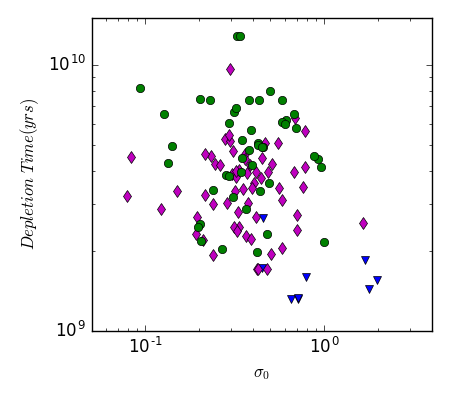
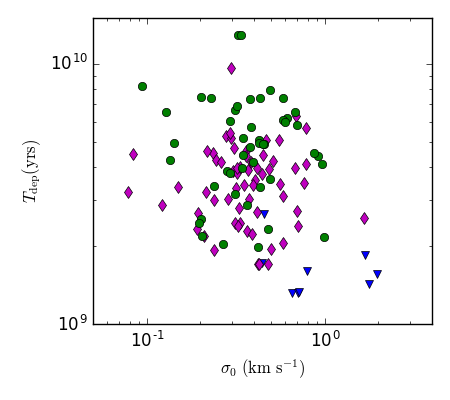
Star Formation

diff --git a/star_formation.py b/star_formation.py
@@ -49,8 +49,8 @@ Tdep2 = M_den *1E6 / SFRSD
 ##PLOTS##
 #Depletion time vs Surface Density
 figure = plt.figure(figsize=(4.5,4))
-plt.xlabel('$\Sigma\ ((M_{\odot})/pc^2)$')
-plt.ylabel('$Depletion\ Time (yrs)$')
+plt.xlabel('$\Sigma\ (M_{\odot}\ \mathrm{pc}^{-2})$')
+plt.ylabel('$T_\mathrm{dep} (\mathrm{yrs})$')
 plt.loglog(M_den[centre_in],Tdep[centre_in],marker='v',c='b',linestyle='None')
 plt.loglog(M_den[arm_in],Tdep[arm_in],marker='d',c='m',linestyle='None')
 plt.loglog(M_den[interarm_in],Tdep[interarm_in],marker='o',c='g',linestyle='None')
@@ -61,8 +61,8 @@ plt.savefig('Tdep_Mden_matplotlib.png')
 
 #Depletion time vs Sigma_0
 figure = plt.figure(figsize=(4.5,4))
-plt.ylabel('$Depletion\ Time (yrs)$')
-plt.xlabel('$\sigma_0$')
+plt.ylabel('$T_\mathrm{dep} (\mathrm{yrs})$')
+plt.xlabel('$\sigma_0\ (\mathrm{km\ s^{-1}})$')
 plt.loglog(sigma0[centre_in],Tdep[centre_in],marker='v',c='b',linestyle='None')
 plt.loglog(sigma0[arm_in],Tdep[arm_in],marker='d',c='m',linestyle='None')
 plt.loglog(sigma0[interarm_in],Tdep[interarm_in],marker='o',c='g',linestyle='None')
@@ -73,8 +73,8 @@ plt.savefig('Tdep_sigma0_matplotlib.png')
 
 #Depletion time vs Surface Density
 figure = plt.figure(figsize=(4.5,4))
-plt.xlabel('$\Sigma\ ((M_{\odot})/pc^2)$')
-plt.ylabel('$Depletion\ Time (actual) (yrs)$')
+plt.xlabel('$\Sigma\ (M_{\odot}\ \mathrm{pc}^{-2})$')
+plt.ylabel('$T_\mathrm{dep} (actual) (\mathrm{yrs})$')
 plt.loglog(M_den[centre_in],Tdep2[centre_in],marker='v',c='b',linestyle='None')
 plt.loglog(M_den[arm_in],Tdep2[arm_in],marker='d',c='m',linestyle='None')
 plt.loglog(M_den[interarm_in],Tdep2[interarm_in],marker='o',c='g',linestyle='None')
@@ -85,8 +85,8 @@ plt.savefig('Tdep2_Mden_matplotlib.png')
 
 #Depletion time vs Sigma_0
 figure = plt.figure(figsize=(4.5,4))
-plt.ylabel('$Depletion\ Time (actual) (yrs)$')
-plt.xlabel('$\sigma_0$')
+plt.ylabel('$T_\mathrm{dep} (actual) (\mathrm{yrs})$')
+plt.xlabel('$\sigma_0\ (\mathrm{km\ s^{-1}})$')
 plt.loglog(sigma0[centre_in],Tdep2[centre_in],marker='v',c='b',linestyle='None')
 plt.loglog(sigma0[arm_in],Tdep2[arm_in],marker='d',c='m',linestyle='None')
 plt.loglog(sigma0[interarm_in],Tdep2[interarm_in],marker='o',c='g',linestyle='None')
@@ -94,6 +94,67 @@ plt.ylim(4E8, 1E12)
 plt.xlim(5E-2,4)
 plt.tight_layout() 	
 plt.savefig('Tdep2_sigma0_matplotlib.png')
+
+tb2 = {'Clouds': ['All','Nuclear','Arm','Interarm'] 
+	,'mean_T_dep': [
+		'{:3.2f}'.format(np.nanmean(Tdep)/1E9),
+		'{:3.2f}'.format(np.nanmean(Tdep[centre_in])/1E9),
+		'{:3.2f}'.format(np.nanmean(Tdep[arm_in])/1E9),
+		'{:3.2f}'.format(np.nanmean(Tdep[interarm_in])/1E9)]
+	,'stde_T_dep': [
+		'{:3.2f}'.format(np.nanstd(Tdep,ddof=1)/np.sqrt(len(Tdep))/1E9),
+		'{:3.2f}'.format(np.nanstd(Tdep[centre_in],ddof=1)/np.sqrt(len(Tdep[centre_in]))/1E9),
+		'{:3.2f}'.format(np.nanstd(Tdep[arm_in],ddof=1)/np.sqrt(len(Tdep[arm_in]))/1E9),
+		'{:3.2f}'.format(np.nanstd(Tdep[interarm_in],ddof=1)/np.sqrt(len(Tdep[interarm_in]))/1E9)]
+	,'mean_T_dep2': [
+		'{:3.2f}'.format(np.nanmean(Tdep2)/1E9),
+		'{:3.2f}'.format(np.nanmean(Tdep2[centre_in])/1E9),
+		'{:3.2f}'.format(np.nanmean(Tdep2[arm_in])/1E9),
+		'{:3.2f}'.format(np.nanmean(Tdep2[interarm_in])/1E9)]
+	,'stde_T_dep2': [
+		'{:3.2f}'.format(np.nanstd(Tdep2,ddof=1)/np.sqrt(len(Tdep2))/1E9),
+		'{:3.2f}'.format(np.nanstd(Tdep2[centre_in],ddof=1)/np.sqrt(len(Tdep2[centre_in]))/1E9),
+		'{:3.2f}'.format(np.nanstd(Tdep2[arm_in],ddof=1)/np.sqrt(len(Tdep2[arm_in]))/1E9),
+		'{:3.2f}'.format(np.nanstd(Tdep2[interarm_in],ddof=1)/np.sqrt(len(Tdep2[interarm_in]))/1E9)]
+	}
+
+
+
+
+
+t2 = Table(tb2,names =('Clouds','mean_T_dep','stde_T_dep','mean_T_dep2','stde_T_dep2'))
+print t2
+
+t2.write('means_T.tex', format = 'latex')
+
+
+
+
+
+
+
+
+
+
+
+
+
+
+
+
+
+
+
+
+
+
+
+
+
+
+
+
+
 
 
 

diff --git a/means_T.tex b/means_T.tex
@@ -1,0 +1,9 @@
+\begin{table}
+\begin{tabular}{ccccc}
+Clouds & mean_T_dep & stde_T_dep & mean_T_dep2 & stde_T_dep2 \\
+All & 4.04 & 0.14 & 16.99 & 2.78 \\
+Nuclear & 1.61 & 0.12 & 8.77 & 2.63 \\
+Arm & 3.57 & 0.14 & 18.54 & 5.09 \\
+Interarm & 4.82 & 0.23 & 16.50 & 2.57 \\
+\end{tabular}
+\end{table}
